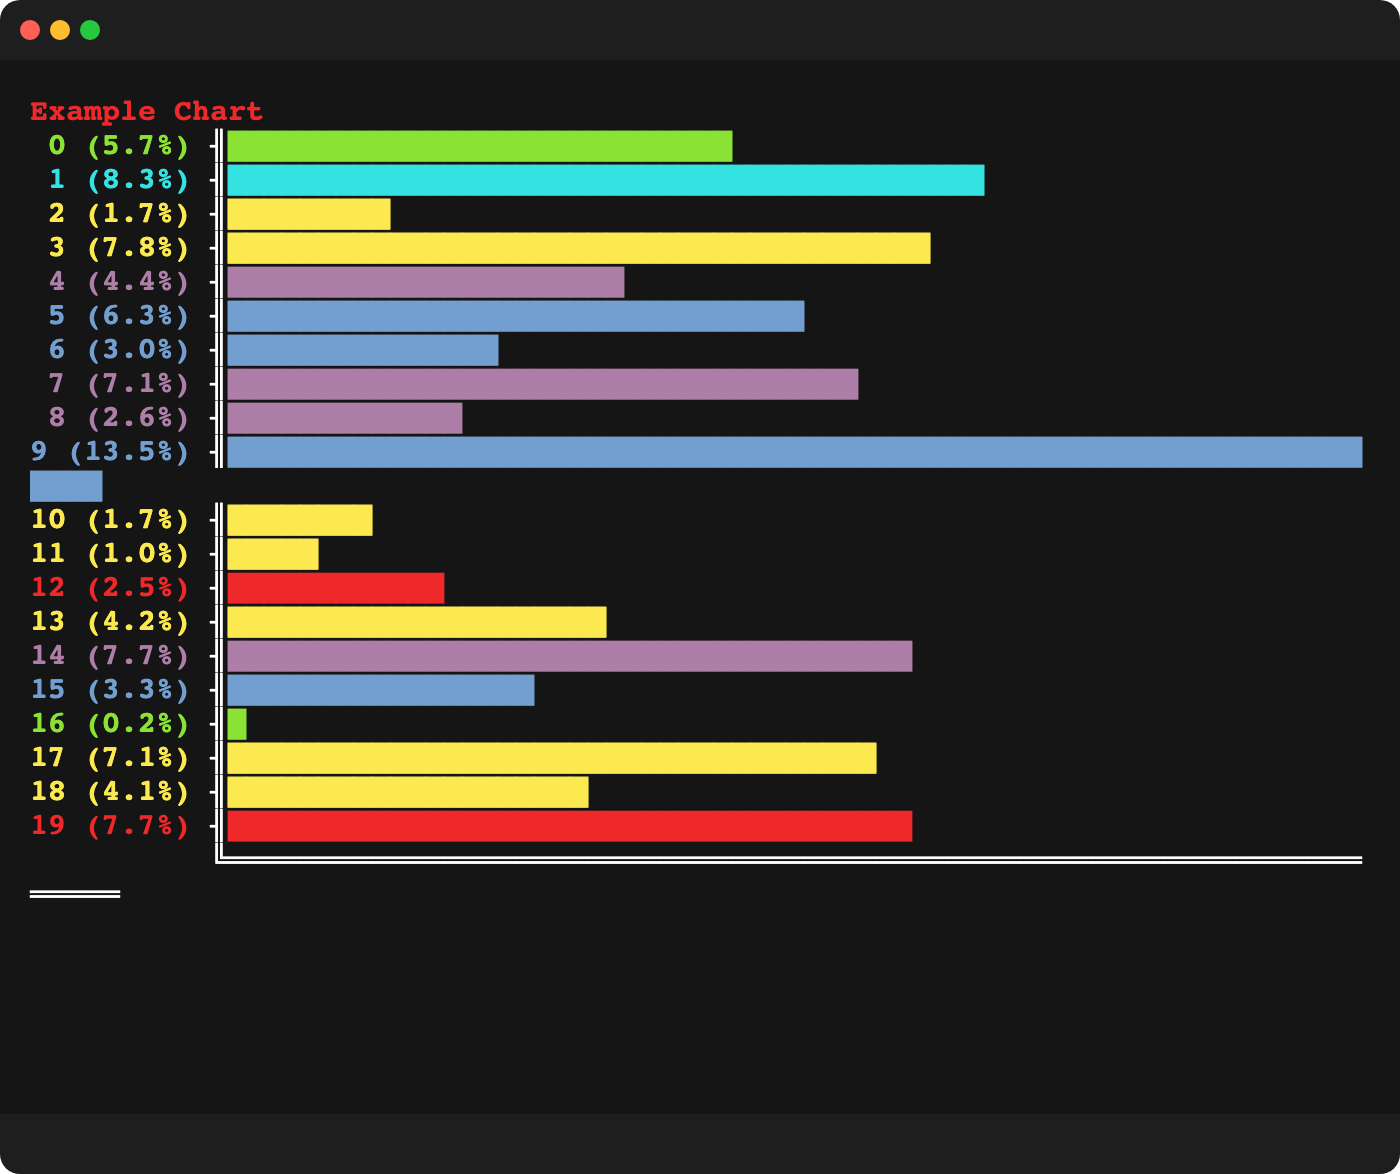
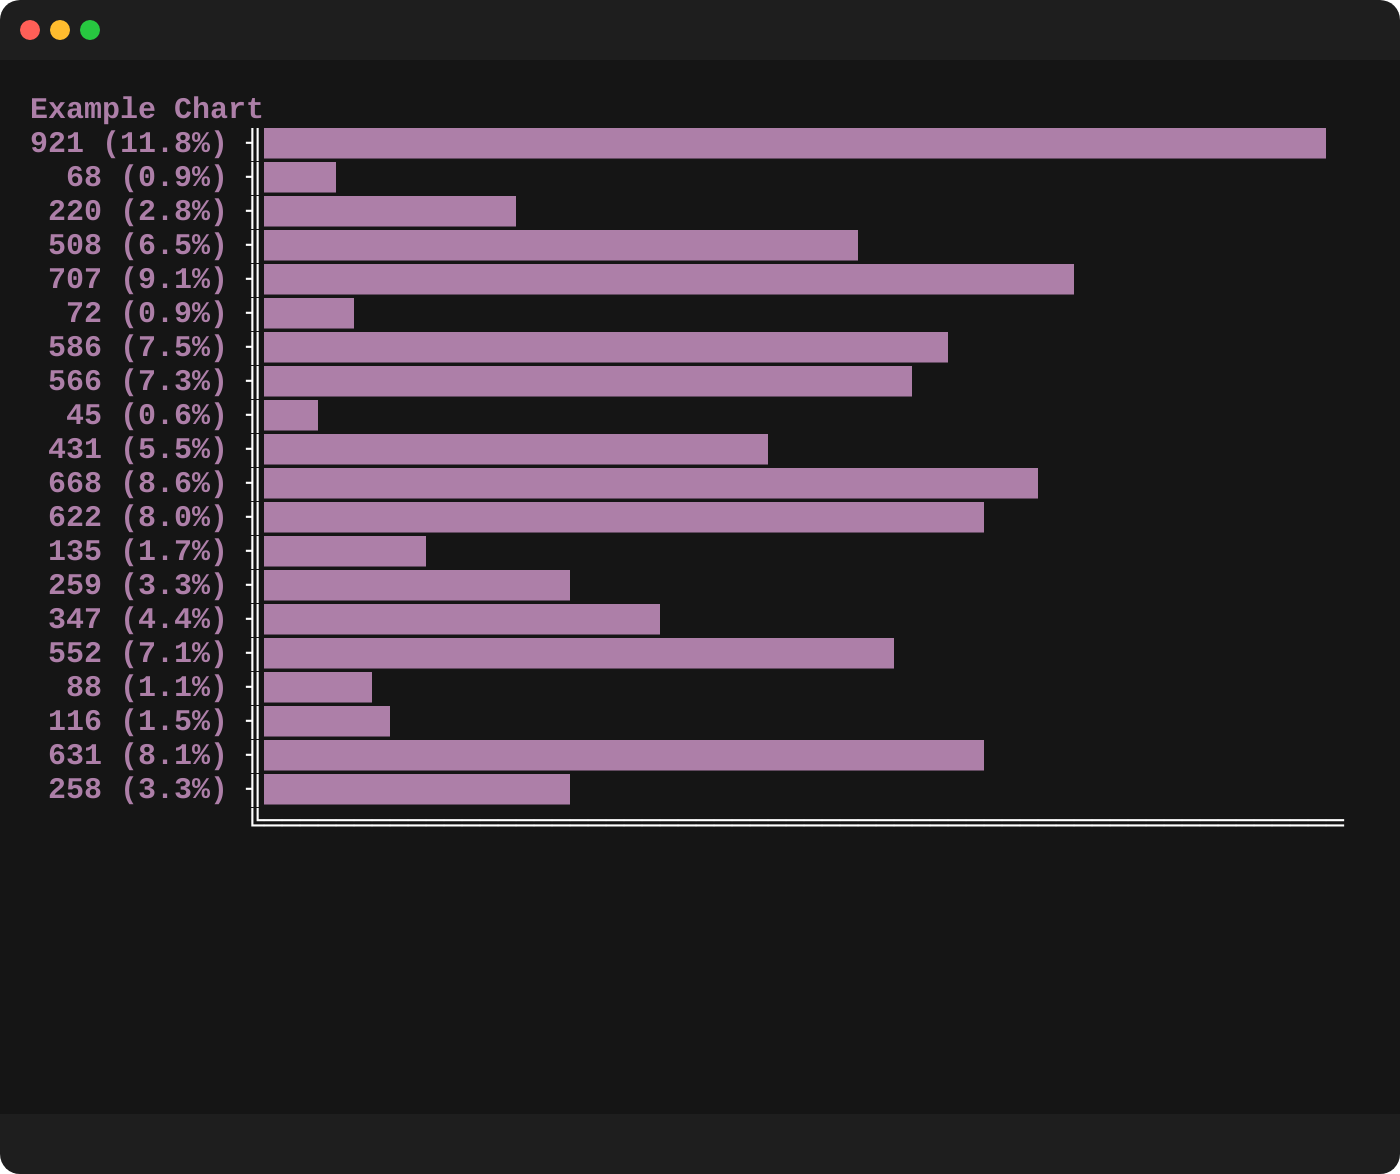
chore: remove chartscii dep

Changed region(s): [[0.0, 0.0613, 0.9829, 0.7359], [0.0307, 0.7359, 0.0921, 0.7666]]

diff --git a/tests/shellfie.test.js b/tests/shellfie.test.js
@@ -1,5 +1,5 @@
 const shellfie = require('../shellfie');
-const fancyExample = require('./fancy');
+const execute = require('util').promisify(require('child_process').exec);
 
 describe('shellfie', () => {
     it('should support array of string and output a png file', async () => {
@@ -29,7 +29,7 @@ describe('shellfie', () => {
         await shellfie(data, options);
     });
 
-    it.only('should support custom viewport', async () => {
+    it('should support custom viewport', async () => {
         await shellfie(["\x1b[32mGreen line", "\x1b[31;1mRED bold"], { name: 'small', viewport: { width: 200, height: 200 } });
     });
 
@@ -113,17 +113,30 @@ describe('shellfie', () => {
         await shellfie(testResults, { name: 'monaco', style: { fontFamily: 'Monaco' } });
         await shellfie(testResults, { name: 'fira', style: { fontFamily: 'Fira Code', fontWeight: 'bold' } });
         await shellfie(testResults, { name: 'colored', style: { fontFamily: 'Fira Code' }, theme: { forground: 'gray' } });
-        await shellfie(testResults, { name: 'default', viewport: {height: 500} });
+        await shellfie(testResults, { name: 'default', viewport: { height: 500 } });
     });
 
-    it('should support chartscii fancy example', async () => {
-        const stdout = fancyExample();
+    it.only('should support chartscii fancy example', async () => {
+        const chart = [];
+        for (let i = 1; i <= 20; i++) {
+            chart.push(Math.floor(Math.random() * 1000));
+        }
+        const dataString = chart.join(' ');
+        const cmd = `npx chartscii-cli create ${dataString} --label 'Example Chart' --width 500 --color 'green' --colorLabels --percentage --reverse`;
+        const { stdout } = await execute(cmd);
         const data = stdout.split('\n');
         await shellfie(data, { name: 'chartscii' });
     });
 
-    it('should support fancy unsplitted', async () => {
-        await shellfie(fancyExample(), { name: 'chartscii again' });
+    it.only('should support fancy unsplitted', async () => {
+        const chart = [];
+        for (let i = 1; i <= 20; i++) {
+            chart.push(Math.floor(Math.random() * 1000));
+        }
+        const dataString = chart.join(' ');
+        const cmd = `npx chartscii-cli create ${dataString} --label 'Example Chart' --width 500 --color 'pink' --colorLabels --percentage --reverse`;
+        const { stdout } = await execute(cmd);
+        await shellfie(stdout, { name: 'chartscii again', mode: 'raw' });
     });
 
     it('should support string output', async () => {
